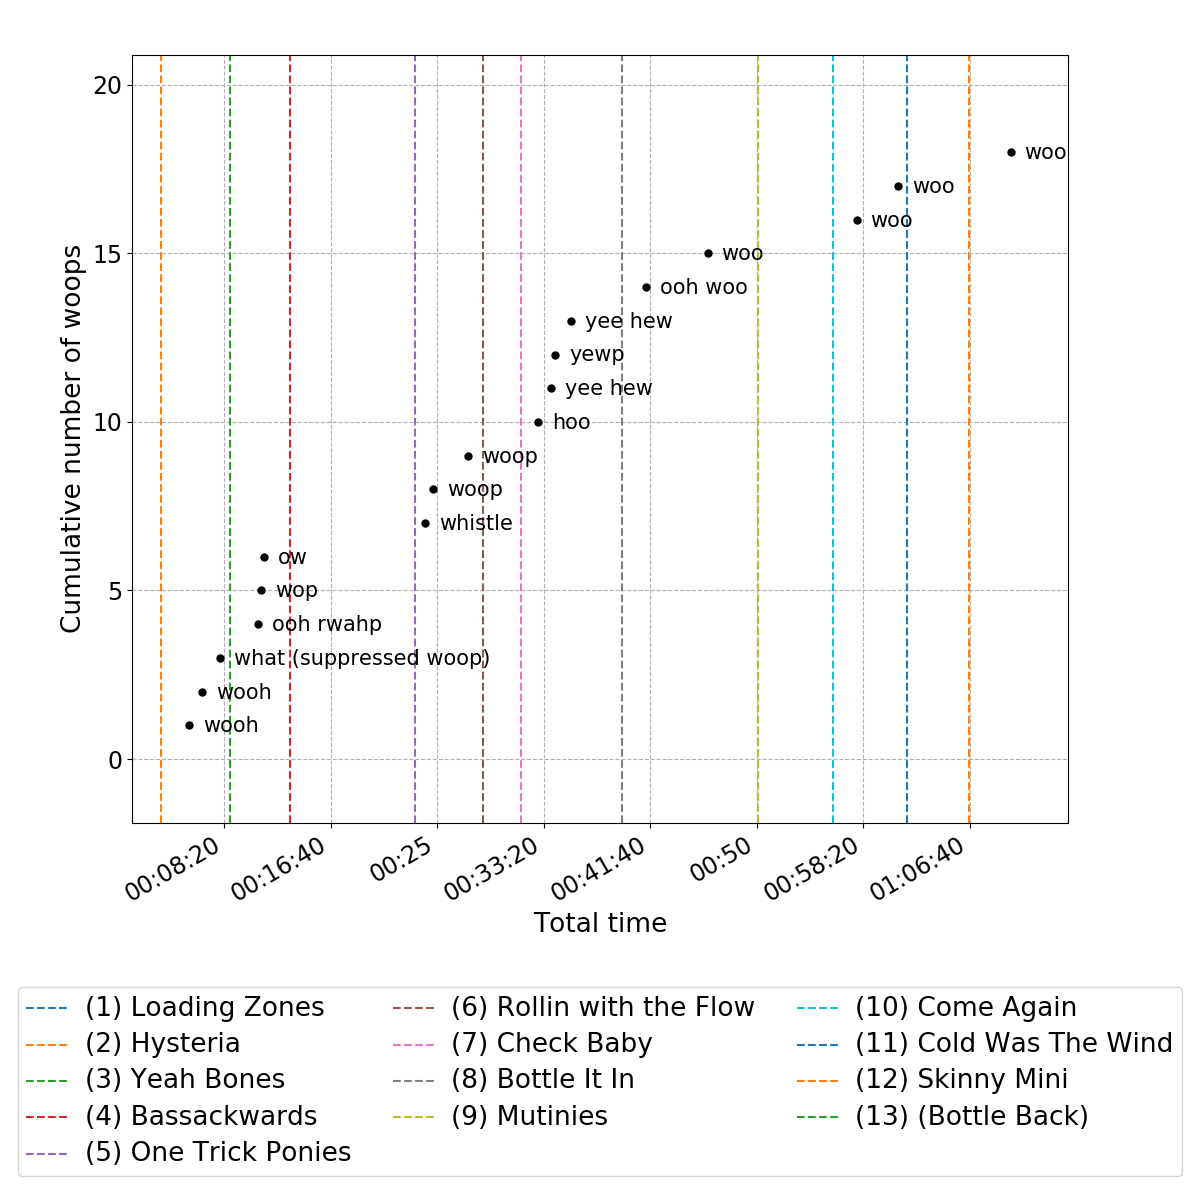
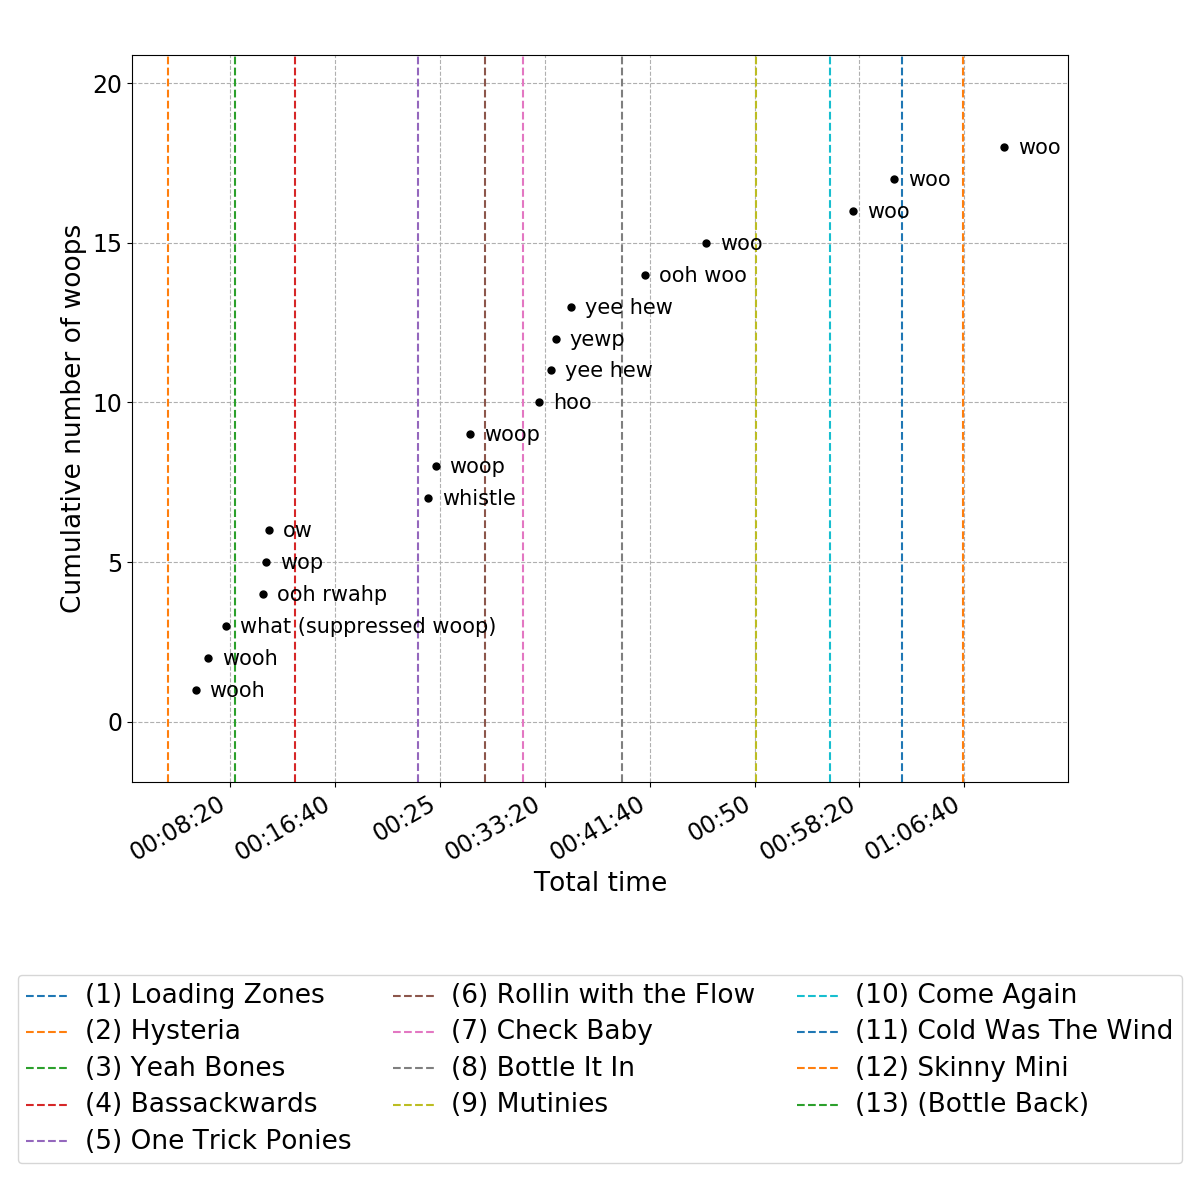
better stretching

diff --git a/kvwoop.py b/kvwoop.py
@@ -46,7 +46,8 @@ class KVwoop(pd.DataFrame):
         # well but now we don't want the date info, only time:
         self['TotalTimeX'] = self['TotalTime'].dt.time
 
-        p = Plot((12,12)) # this is just my pretty plotting framework
+        figsize = (12,12) if songs else (12,8)
+        p = Plot(figsize) # this is just my pretty plotting framework
         self.plot(x = 'TotalTimeX', y = 'NumWoops', style = '.', ax = p.ax, legend=False, markersize=10, label='_nolabel_', color='k')
 
         ## annotate
@@ -83,7 +84,7 @@ class KVwoop(pd.DataFrame):
         plt.xlabel('Total time')
         p.fig.autofmt_xdate()
         plt.ylim(0, self['NumWoops'].max() + 1) # the last label doesn't fit, increase the plot limit
-        p.pretty(stretch='float', large=2)
+        p.pretty(stretch=0.9, large=2)
         p.figure(imgname + '.png')
 
 

diff --git a/README.md b/README.md
@@ -1,5 +1,15 @@
 # KV Woops analyzer
 
+To set up
+
+```console
+git clone https://github.com/sagitta42/KVwoop.git
+git submodule init
+git submodule update
+```
+
+## Functions
+
 Two methods are available:
 
 ```woop_vs_time```: plot number of woops VS time
@@ -28,7 +38,3 @@ Code:
 Information tables:
 ```kvwoop.csv```: woop information 
 ```kvalbum.csv```: general album information (track length)
-
-	new file:   myplot.py
-	new file:   plot_stuff.py
-
